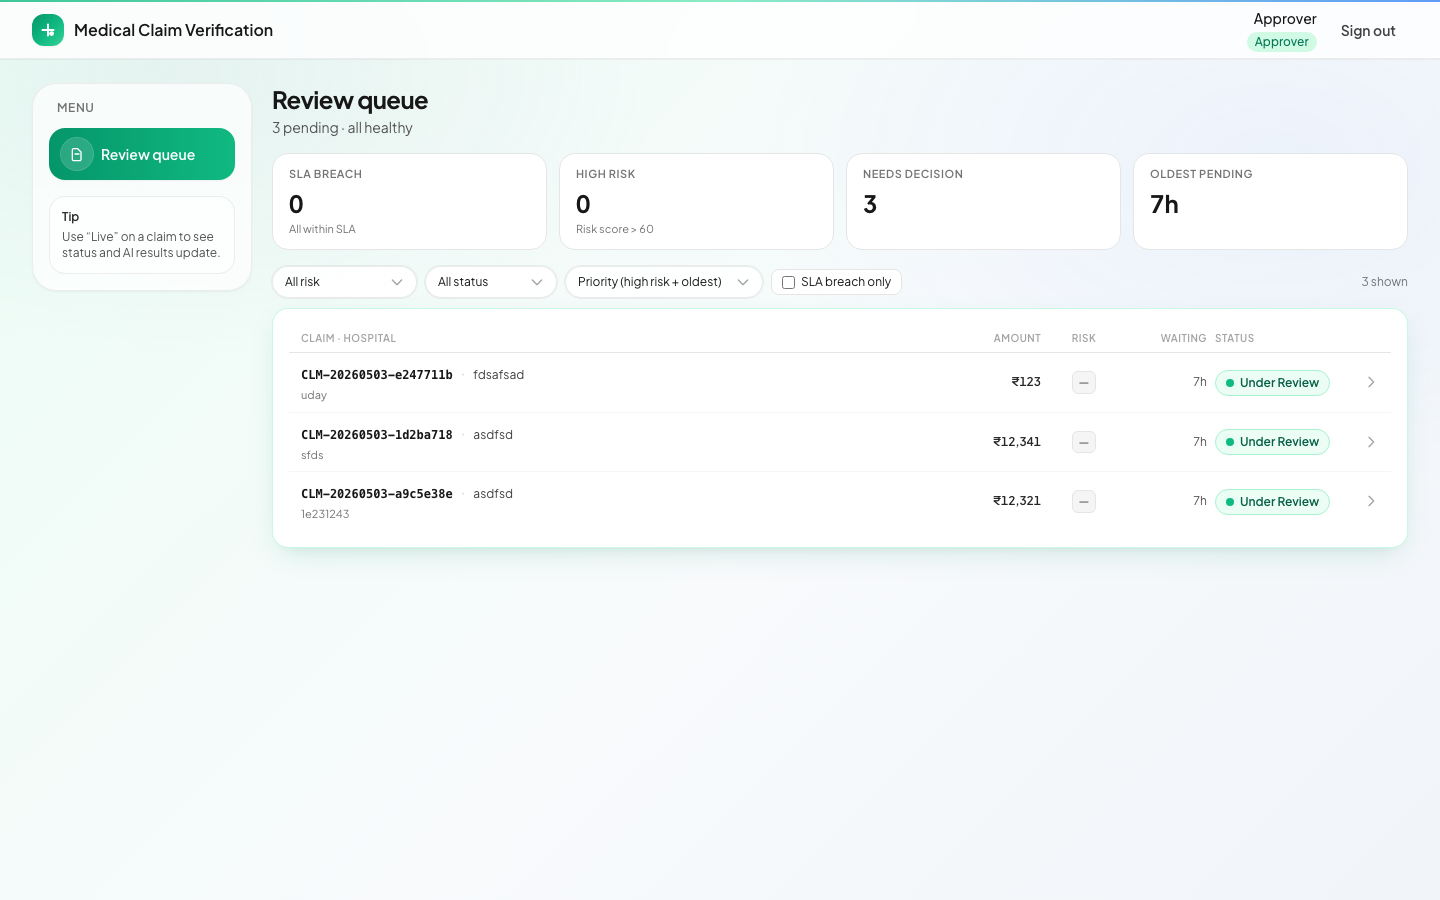
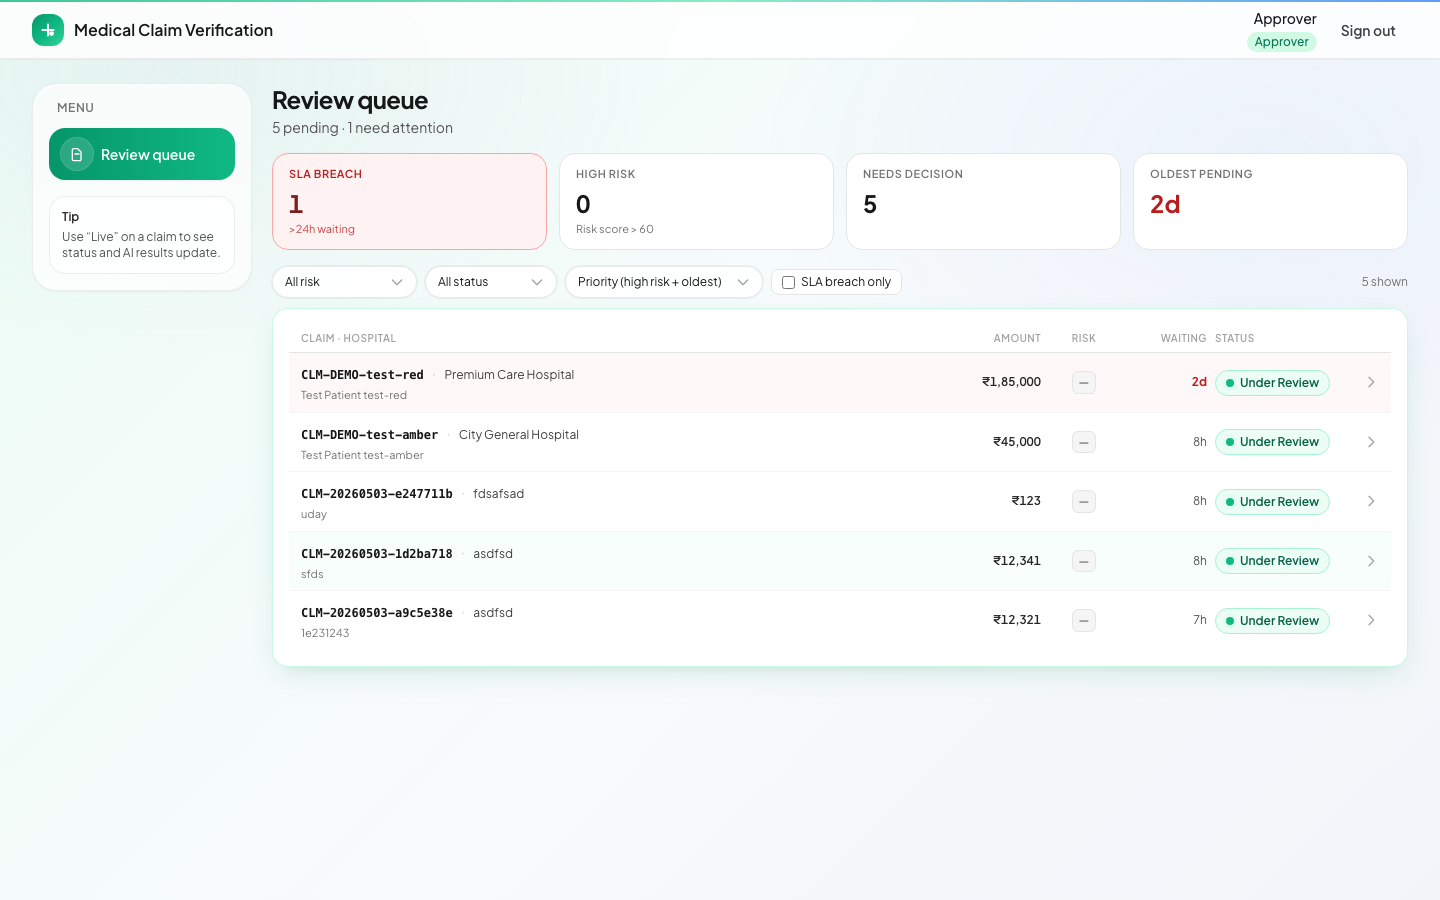
docs: refresh QA-SUMMARY screenshot table + add amber/red fraud journey shots
- QA-SUMMARY.md screenshot table updated to point at the renamed/new files
  (drops dead links to 02-dashboard.png, 05-claim-json.png, 07-login-again,
  10-approval-result, 11-approver-queue-after).
- Seeded two demo claims directly via DB to give docs realistic risk
  visuals: CLM-DEMO-test-amber (risk 52, 2 warnings) and CLM-DEMO-test-red
  (risk 78, non-compliant, "Likely reject"). Bypass the AI pipeline so we
  can set deterministic risk levels for the screenshots.
- Re-captured 08-approver-dashboard.png so the queue now shows the SLA
  breach (red) and oldest-pending (red 2d) stats actually triggered.
- Captured fraud-journeys/04 (amber) and fraud-journeys/05 (red) detail
  pages and embedded them in PROJECT.md.

diff --git a/docs/QA-SUMMARY.md b/docs/QA-SUMMARY.md
@@ -36,17 +36,19 @@ Full end-to-end testing completed on Medical Claim Verification app. All major w
 
 ## Screenshots
 
+Refreshed against the redesigned UI on branch `design/mvp-ui-polish` (1440×900 viewport).
+
 | Name | Description |
 |------|-------------|
-| [01-landing.png](qa-screenshots/01-landing.png) | Login page |
-| [02-dashboard.png](qa-screenshots/02-dashboard.png) | Claimant dashboard with claims list |
-| [04-claim-detail.png](qa-screenshots/04-claim-detail.png) | Claim detail view (claimant) |
-| [05-claim-json.png](qa-screenshots/05-claim-json.png) | Raw claim JSON toggle |
-| [07-login-again.png](qa-screenshots/07-login-again.png) | Second login (approver) |
-| [08-approver-dashboard.png](qa-screenshots/08-approver-dashboard.png) | Approver queue |
-| [09-approver-review.png](qa-screenshots/09-approver-review.png) | Claim review interface |
-| [10-approval-result.png](qa-screenshots/10-approval-result.png) | Approval form with decision buttons |
-| [11-approver-queue-after.png](qa-screenshots/11-approver-queue-after.png) | Queue after review |
+| [01-landing.png](qa-screenshots/01-landing.png) | Login page (split-pane brand + sign-in card) |
+| [04-claim-detail.png](qa-screenshots/04-claim-detail.png) | Full-page claim detail (verdict + decision + docs + activity) |
+| [07-claimant-dashboard.png](qa-screenshots/07-claimant-dashboard.png) | Claimant dashboard — list-primary, "+ New claim" opens modal |
+| [08-approver-dashboard.png](qa-screenshots/08-approver-dashboard.png) | Approver queue — alert stats + filters + table-like rows |
+| [09-approver-review.png](qa-screenshots/09-approver-review.png) | Approver claim review — verdict tile + sticky decision panel |
+| [10-approver-queue.png](qa-screenshots/10-approver-queue.png) | Admin viewing approver queue |
+| [11-admin-dashboard.png](qa-screenshots/11-admin-dashboard.png) | Admin dashboard variant — SLA-driven stats |
+| [fraud-journeys/01-dashboard-all-claims.png](fraud-journeys/01-dashboard-all-claims.png) | Admin "all claims" dashboard |
+| [fraud-journeys/02-journey-green-detail.png](fraud-journeys/02-journey-green-detail.png) | Low-risk green journey — likely-approve verdict |
 
 ## Full Report
 

diff --git a/docs/PROJECT.md b/docs/PROJECT.md
@@ -237,9 +237,17 @@ List-primary. "+ New claim" opens a modal form. Status filter, auto-refresh ever
 
 ![Claimant dashboard](./qa-screenshots/07-claimant-dashboard.png)
 
-### Fraud journey — low risk approval candidate
-Compliant policy + low risk score + no warnings → "Likely approve" verdict. Approve button enabled.
+### Fraud journey — low risk (likely approve)
+Compliant policy + risk score 28 + no warnings → "Likely approve" verdict in green. Approve button enabled.
 
 ![Green journey](./fraud-journeys/02-journey-green-detail.png)
 
-> Higher-risk amber/red journey screenshots not included — current test data only contains low-risk claims. To regenerate with realistic risk distribution, run the synthetic data generator and the fraud-detection pipeline against varied inputs.
+### Fraud journey — medium risk (needs review)
+Risk score 52 in amber band + 2 warnings (amount mismatch + invalid codes) → "2 warnings" verdict in amber. Approve disabled until override.
+
+![Amber journey](./fraud-journeys/04-journey-amber-detail.png)
+
+### Fraud journey — high risk (likely reject)
+Risk score 78 in red band + non-compliant policy + 2 warnings → "Likely reject" verdict in red. Top issues show actual ₹ mismatch and invalid code count. Override toggle required to approve.
+
+![Red journey](./fraud-journeys/05-journey-red-detail.png)
